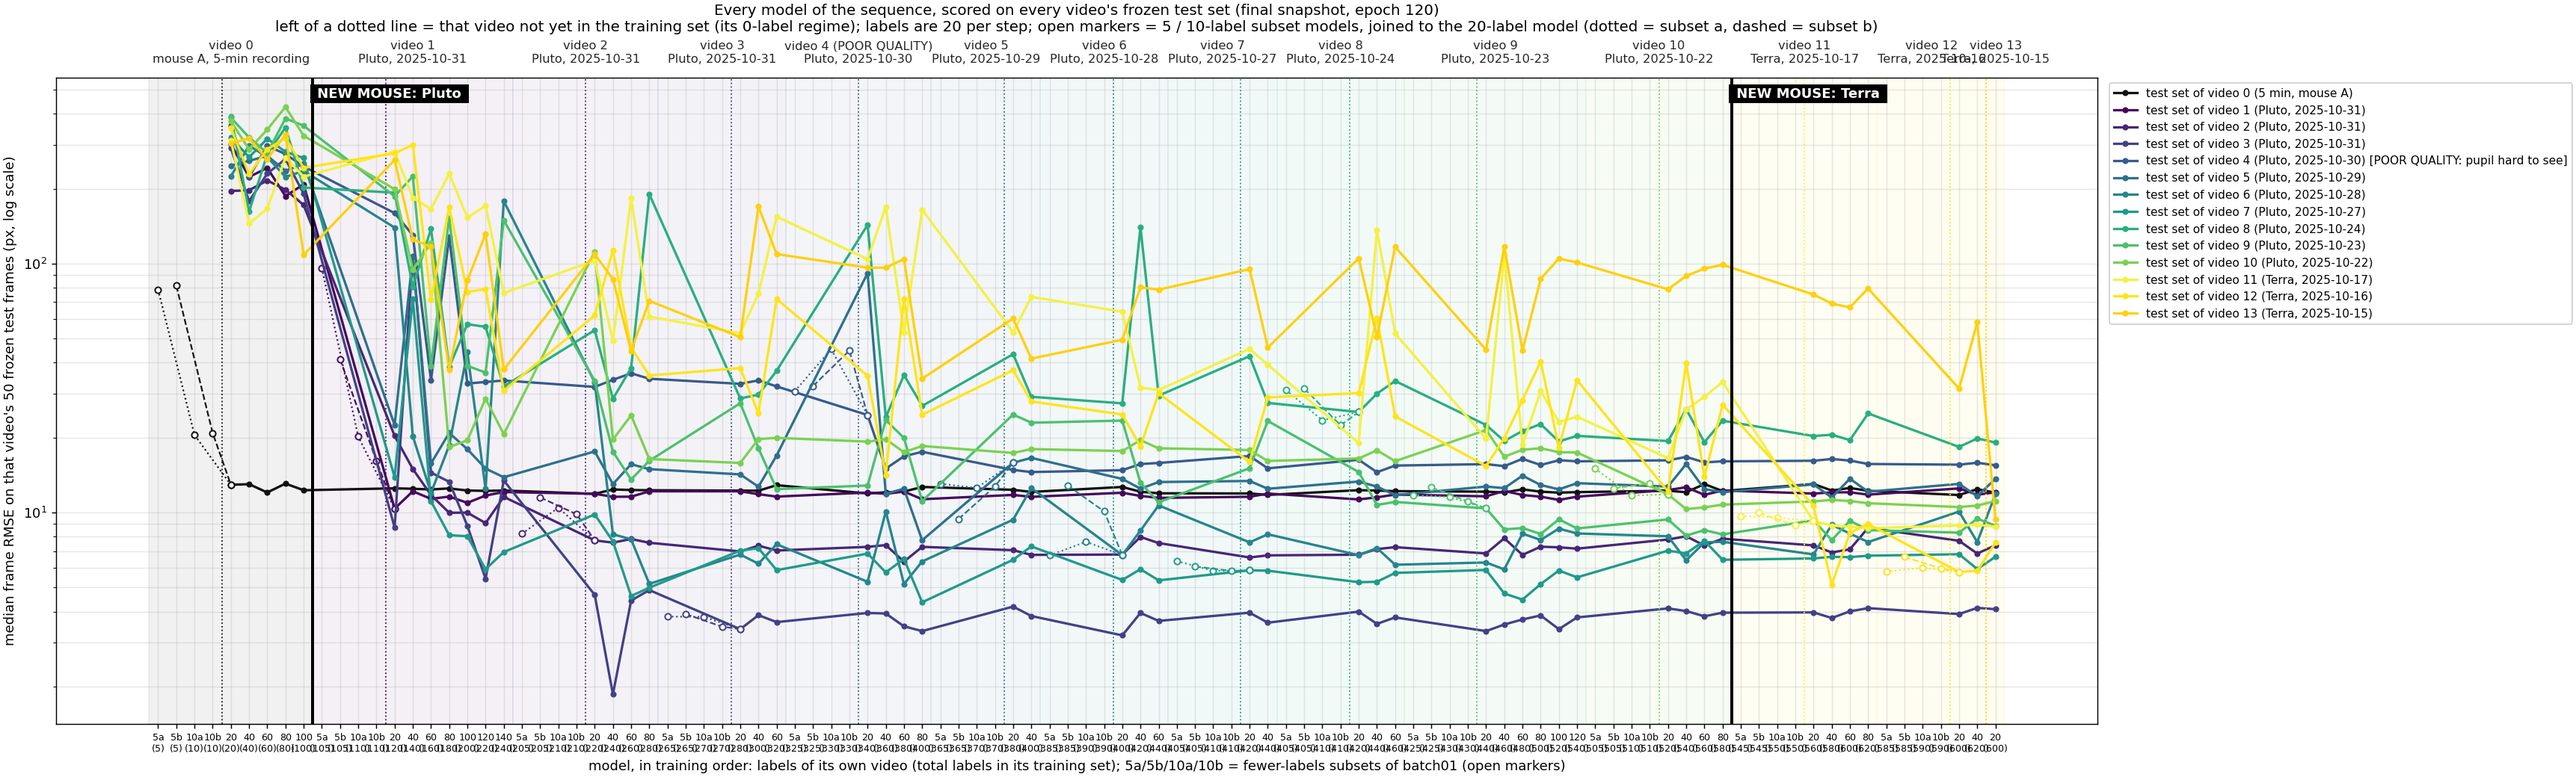
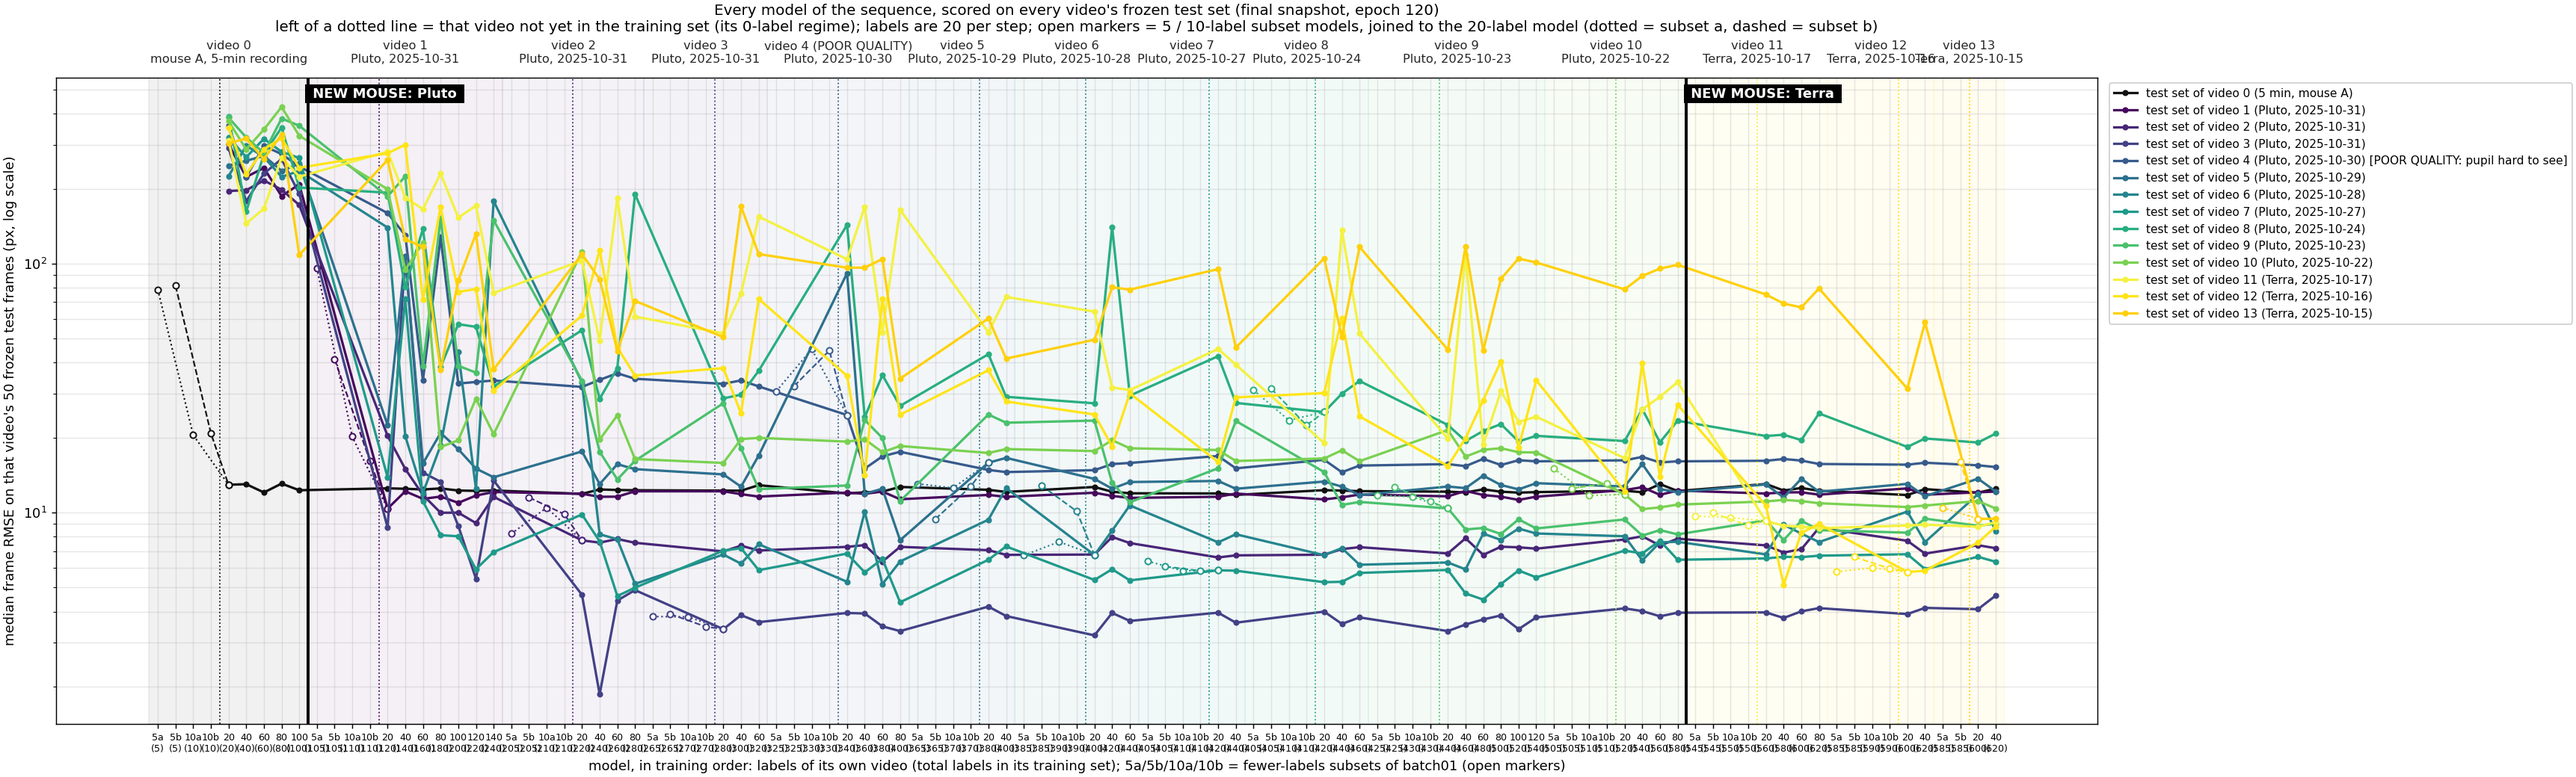
Cross-video evaluation with model 1412 (video 13, 40 labels); video 13 batch 3 labeled, step 3 training

Changed region(s): [[0.0621, 0.0308, 0.8075, 0.9846], [0.4038, 0.8, 0.4348, 0.8308], [0.0621, 0.5538, 0.0932, 0.5846]]

diff --git a/README.md b/README.md
@@ -26,7 +26,7 @@ per-frame predictions stay local; git carries code, documentation and audited ag
 | Finished | **video 10** (Pluto, 2025-10-22, the last Pluto video of the sequence): test50 / val20 / batch01 pre-labeled with the video-9 80-label model (1014) and corrected by the labeler (test50: 234 of 400 points moved), test set frozen; 0 labels (model 1014) = 18.13 px (p90 32.0, 8% of frames > 50 px), 20 labels = 11.83 px (p90 27.7, 2% > 50 px), 40 labels = 10.32 px (p90 26.1, 92% of keypoints with confidence >= 0.6), 60 labels = 10.49 px (p90 27.2, 8% > 50 px; no gain over 10.32), 80 labels = 10.76 px (p90 188.7, 12% > 50 px; no gain): the plateau rule fired at 80 (two steps without a gain on 10.32), finished at **40 labels, 10.32 px** (user decision 2026-10-03) |
 | Finished | **video 11** (Terra = mouse C, 2025-10-17, the first video of a new mouse): test50 / val20 / batch01 pre-labeled with the video-10 40-label model (1112) and corrected by the labeler (test50: 249 of 400 points moved), test set frozen; 0 labels (model 1112) = 25.96 px (p90 80.1, 16% of frames > 50 px), 20 labels = 9.24 px (p90 166.4, 20% of frames > 50 px), 40 labels = 8.86 px (p90 17.5, 4% of frames > 50 px, 94% of keypoints with confidence >= 0.6; 4.1% better on the median), 60 labels = 8.77 px (p90 12.9, 2% of frames > 50 px, 97% confidence; 1.0% better than 8.86, a flat step), 80 labels = 8.65 px (p90 13.1, 2% > 50 px, 98% confidence; 1.4% better, a second flat step): the plateau rule fired at 80, finished at **40 labels, 8.86 px** (user decision 2026-10-04). Training set of every step = 540 carried labels of videos 0-10 + this video's labels; shuffles 1211, 1212, ... |
 | Finished | **video 12** (Terra, 2025-10-16, second video of mouse C): test50 / val20 / batch01 pre-labeled with the video-11 40-label model (1212) and corrected by the labeler (test50: 110 of 400 points moved), test set frozen; 0 labels (model 1212) = 5.13 px, 20 labels = 5.77 px, 40 labels = 5.84 px (0% of frames > 50 px at every step): no step improves the 0-label number, the plateau rule fired at 40, finished with the plateau at **0 labels, 5.13 px** (user decision 2026-10-04 21:29); no labels carried |
-| In progress | **video 13** (Terra, 2025-10-15): test50 / val20 / batch01 extracted and pre-labeled with model 1212 and corrected by the labeler (test50: 287 of 400 points moved), test set frozen; 0 labels (model 1212) = 69.13 px (p90 116.6, 56% of frames > 50 px): the model that fitted video 12 does not fit this day; 20 labels (shuffle 1411) = 9.43 px (p90 16.0, 0% of frames > 50 px, 86% of keypoints with confidence >= 0.6; 86% better than the 0-label number); 40 labels (shuffle 1412) = 9.44 px (p90 14.1, 0% > 50 px, 93% confidence; no gain over 9.43, one flat step by the rule); batch 3 being selected (2026-10-05 22:43). Training set of every step = 580 carried labels of videos 0-11 + this video's labels; shuffles 1411, 1412, ... |
+| In progress | **video 13** (Terra, 2025-10-15): test50 / val20 / batch01 extracted and pre-labeled with model 1212 and corrected by the labeler (test50: 287 of 400 points moved), test set frozen; 0 labels (model 1212) = 69.13 px (p90 116.6, 56% of frames > 50 px): the model that fitted video 12 does not fit this day; 20 labels (shuffle 1411) = 9.43 px (p90 16.0, 0% of frames > 50 px, 86% of keypoints with confidence >= 0.6; 86% better than the 0-label number); 40 labels (shuffle 1412) = 9.44 px (p90 14.1, 0% > 50 px, 93% confidence; no gain over 9.43, one flat step by the rule); batch 3 labeled (2026-10-05 23:59, 0 of 160 pre-labeled points moved), step 3 (shuffle 1413) training. Training set of every step = 580 carried labels of videos 0-11 + this video's labels; shuffles 1411, 1412, ... |
 | Analysis (2026-10-04) | blink and pupil area on all 12 finished videos (`v2_new_pupil_top_video_scaling/results/blink_and_area/`): four-point area median error 6.6% (three-point 8.3%); closed eye best detected by the mean confidence of the four pupil points (27 of 28 closed frames, 4.1% of open frames flagged; the earlier rule flags 55.7%); area traces still contain tracking jumps not covered by the closure rule. Error and confidence per keypoint (`.../results/keypoint_confidence_error/`): pupil top is the least accurate point (10.9 px median) |
 | Next | Terra units 14-18, one recording day each, newest first |
 
